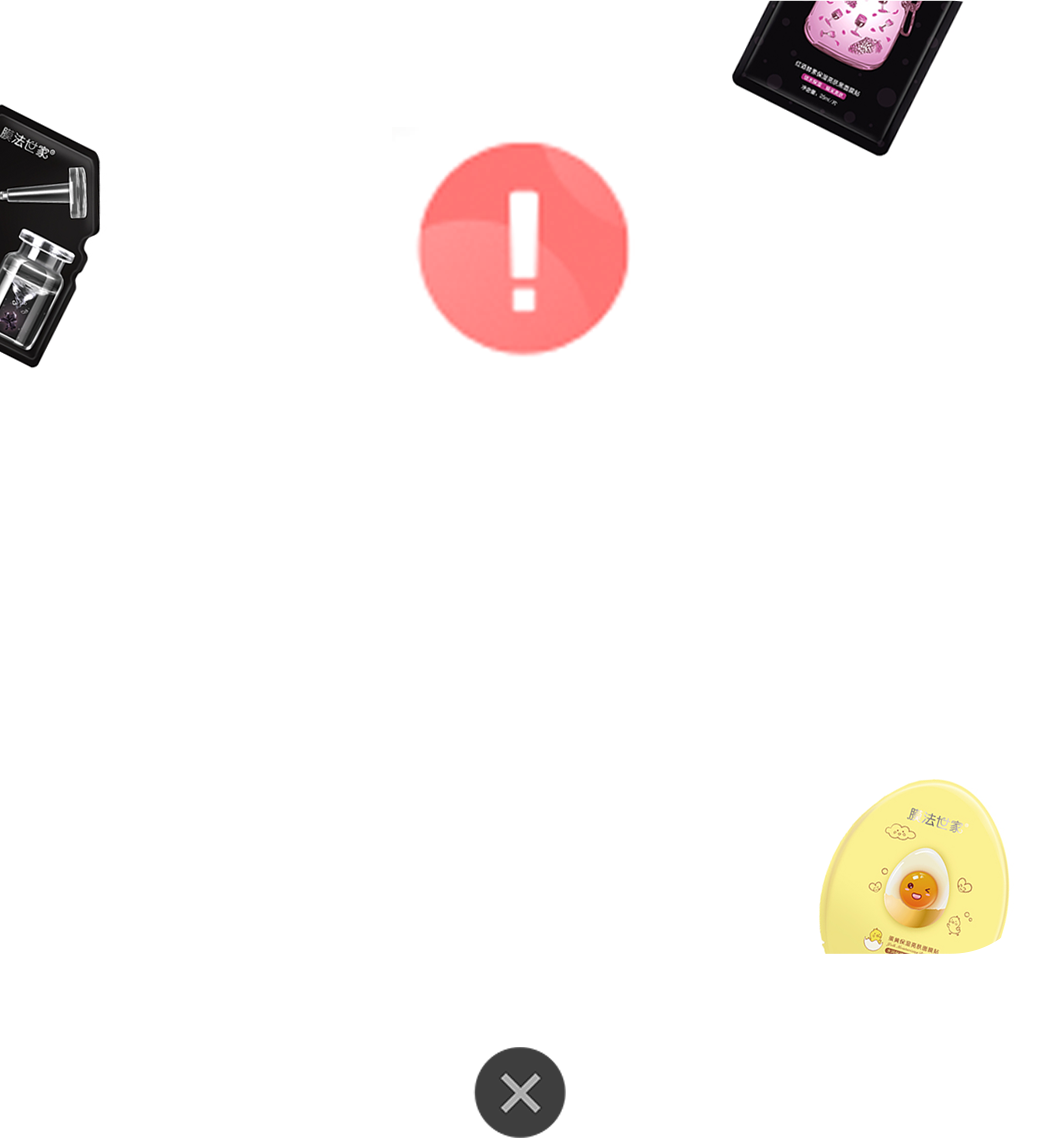
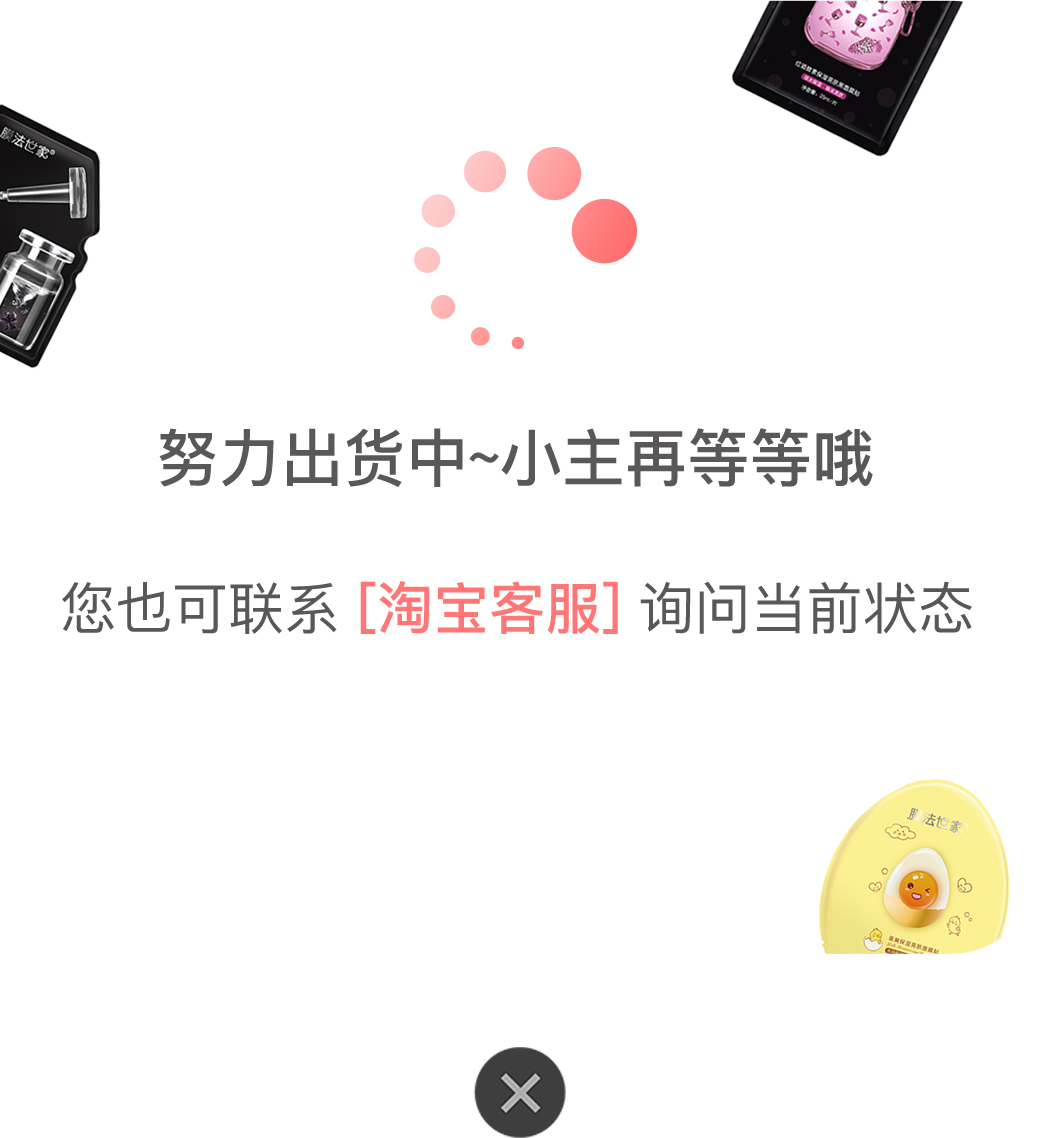
修改出货超时的图片 第三方js引用改回cdn，保留server相关配置，方便随时切换

Changed region(s): [[0.0617, 0.4921, 0.9557, 0.5536], [0.1541, 0.3691, 0.8632, 0.4306], [0.4008, 0.123, 0.6166, 0.3383]]

diff --git a/mfsj_app/index.html b/mfsj_app/index.html
@@ -8,7 +8,7 @@
     <meta name="apple-mobile-web-app-capable" content="yes"/>
     <meta name="format-detection" content="telephone=no"/>
     <link href="https://cdnjs.cloudflare.com/ajax/libs/element-ui/2.3.5/theme-chalk/index.css" rel="stylesheet">
-    <link href="mfsj.css?v=1.09" rel="stylesheet">
+    <link href="mfsj.css?v=1.093" rel="stylesheet">
     <title>膜法世家</title>
 </head>
 <body>
@@ -257,9 +257,6 @@
         <div class="delivery-fail dialog-wrapper" v-if="showContactTaobao" @click="backToList()">
             <div class="dialog">
                 <div class="dialog-content">
-                    <h6 >等待超时</h6>
-                    <p>您可联系<em>[淘宝客服]</em>询问当前状态</p>
-                    <p><strong>或拨打客服电话：400-000-000</strong></p>
                     <span>{{deliveryTimer}}s 后将自动关闭</span>
                 </div>
                 <img  class="bg" src="delivery-error.png" alt="">
@@ -299,15 +296,15 @@
     </div>
 </div>
 <!--<script src="randomock.js"></script>-->
-<!-- <script src="https://cdnjs.cloudflare.com/ajax/libs/lodash.js/4.17.10/lodash.min.js"></script>
+<script src="https://cdnjs.cloudflare.com/ajax/libs/lodash.js/4.17.10/lodash.min.js"></script>
 <script src="https://cdnjs.cloudflare.com/ajax/libs/vue/2.5.16/vue.js"></script>
 <script src="https://cdnjs.cloudflare.com/ajax/libs/element-ui/2.4.0/index.js"></script>
-<script src="https://cdnjs.cloudflare.com/ajax/libs/jquery/3.3.1/jquery.min.js"></script> -->
-<script src="libs/lodash.min.js"></script>
+<script src="https://cdnjs.cloudflare.com/ajax/libs/jquery/3.3.1/jquery.min.js"></script>
+<!-- <script src="libs/lodash.min.js"></script>
 <script src="libs/vue.js"></script>
 <script src="libs/index.js"></script>
-<script src="libs/jquery.min.js"></script>
+<script src="libs/jquery.min.js"></script> -->
 <script src="qrcode.min.js"></script>
-<script src="dist/main.js?v=1.09"></script>
+<script src="dist/main.js?v=1.093"></script>
 </body>
 </html>

diff --git a/mfsj_app/mfsj.css b/mfsj_app/mfsj.css
@@ -641,15 +641,8 @@ body {
   margin-top: 8em;
   text-align: center;
 }
-#mfsj-container div.delivery > div.delivery-fail div.dialog-content h6 {
-  margin-bottom: 1em;
-  font-weight: bold;
-}
-#mfsj-container div.delivery > div.delivery-fail div.dialog-content p em {
-  color: #f56c6c;
-}
 #mfsj-container div.delivery > div.delivery-fail div.dialog-content span {
-  margin-top: 1.5em;
+  margin-top: 7em;
   display: block;
   color: #dddddd;
 }
